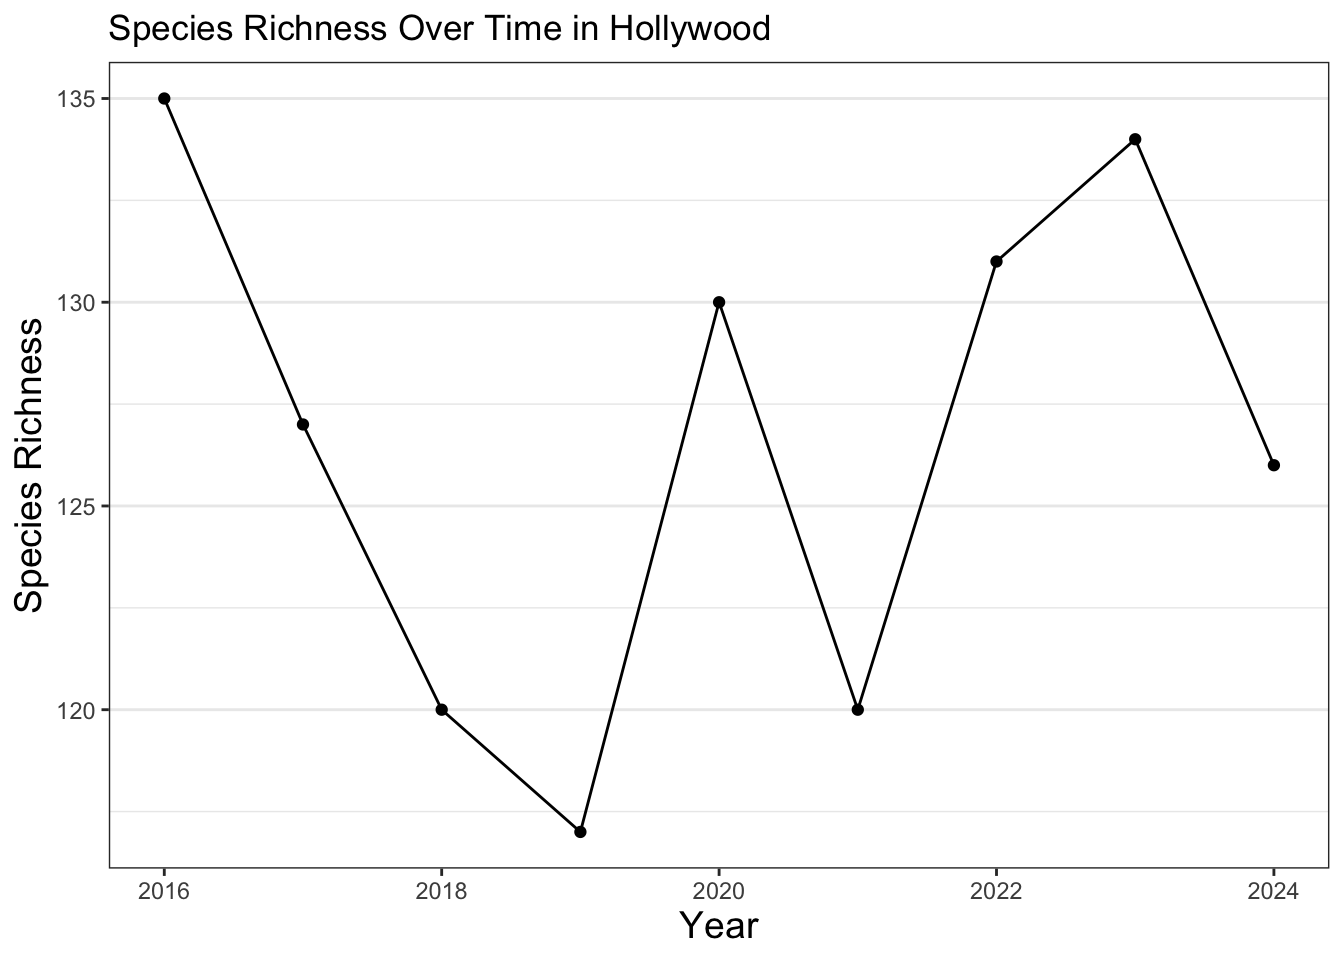
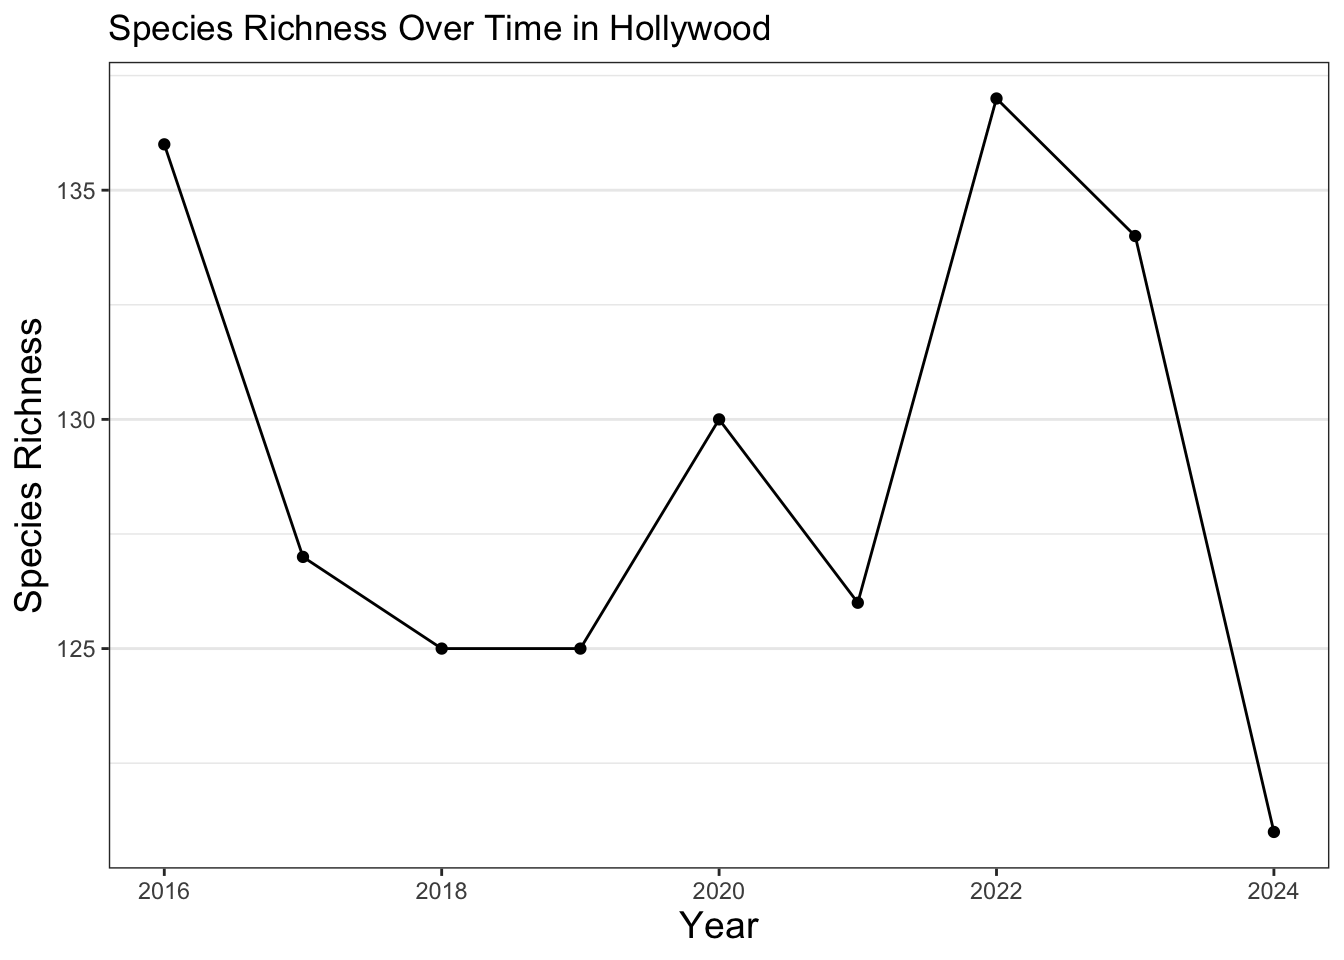
update docs

diff --git a/docs/lessons/next-steps.html b/docs/lessons/next-steps.html
@@ -266,13 +266,13 @@ ul.task-list li input[type="checkbox"] {
 <ol type="1">
 <li>Come up with one or more questions that you are interested in.</li>
 <li>Review the online lessons notes and use Codespace to run the lesson-scripts.</li>
-<li>We did one exercise in class. Optionally, do the rest of the exercises in the “Working with data”, “Creating maps”, and “Creating charts” sections to get more practice with coding. Click in “Show solution” button on the online lesson to see the solution.</li>
-<li>Figure out how to go from 190K CNC observations to the observation you want. If you want to study one or more species, review the examples that filter by species. If you want to study a group of species, review the higher taxa examples. If you want to limit the observations to a particular location, review the examples that show filtering observations using a geographic boundaries. If you want to study your own observations, look at the examples about filtering by iNaturalist user. If you want to kinda mimic the work done by scientists, look at the examples about filter by research grade and licenses. If you want to limit the observations by year, look at the examples about filtering by years.</li>
-<li>Read the <a href="https://wykhuh.github.io/after-inaturalist-r/lessons/setup.html#restart-codespace">“Restart Codespace”</a> section to turn on Codespace. Read the <a href="https://wykhuh.github.io/after-inaturalist-r/lessons/setup.html#stop-codespace">“Stop Codespace”</a> section to learn how to stop Codespace at the end of your work session.</li>
+<li>We did one exercise in class. Optionally, do the rest of the exercises in the <a href="../lessons/working-with-data.html">“Working with data”</a>, <a href="../lessons/creating-maps.html">“Creating maps”</a>, and <a href="../lessons/creating-charts.html">“Creating charts”</a> sections to get more practice with coding. Click in “Show solution” button on the online lesson to see the solution.</li>
+<li>Figure out how to go from 191K City Nature Challenge observations to the observation you want. If you want to study one or more species, review the examples that filter by species. If you want to study a group of species, review the higher taxa examples. If you want to limit the observations to a particular location, review the examples that show filtering observations using a geographic boundaries. If you want to study your own observations, review the examples about filtering by iNaturalist user. If you want to mimic the data standards used by scientists, review the examples about filter by research grade and licenses. If you want to limit the observations by year, review the examples about filtering by years. If you want to remove some of the biases in community science data, review normalizing iNaturalist data examples.</li>
+<li>Read the <a href="https://wykhuh.github.io/after-inaturalist-r/lessons/setup.html#restart-codespace">“Restart Codespace”</a> section to restart Codespace. Read the <a href="https://wykhuh.github.io/after-inaturalist-r/lessons/setup.html#stop-codespace">“Stop Codespace”</a> section to learn how to stop Codespace at the end of your work session.</li>
 <li>Create a script file to save your work.</li>
 <li>Copy and paste examples provided in the lessons, and adjust them to fit your needs. When you have something that kinda works, save the script file and the results. Save your scripts often since RStudio does not have auto save functionality. Save the scripts to the scripts folder. Save any CSVs and images you generate to the results folder.</li>
-<li>Data exploration is an iterative process. Chances are, you won’t get your final results on your first try. Try different way to look at the data. Use <code>filter()</code>, <code>select()</code>, <code>count()</code>, and <code>mutate()</code> to change the data. Then create summary tables, charts, and/or maps to find patterns. Repeat the process. You can create multiple script files.</li>
-<li>As you are analyzing the data, think about how you want to present your results.</li>
+<li>Data exploration is an iterative process. Chances are, you won’t get your final results on your first day. Try different way to look at the data. Use <code>filter()</code>, <code>select()</code>, <code>count()</code>, and <code>mutate()</code> to change the data. Then create summary tables, charts, and/or maps to find patterns. Repeat the process. You can create multiple script files.</li>
+<li>As you are analyzing the data, think about how you want to present your results. Your presentation should represent your analysis, your voice, and your interests.</li>
 <li>Attend the office hours or email me if you have questions.</li>
 </ol>
 

diff --git a/docs/lessons/cleaning-data.html b/docs/lessons/cleaning-data.html
@@ -335,7 +335,7 @@ extracting from zip file</code></pre>
 <li>information about observations with threatened, native, and introduced species had to be downloaded separately</li>
 </ul>
 <p>In order to simplify things for the workshop attendees, we fixed the various issues and created a cleaned up CSV.</p>
-<p>These are the steps we took to produced the cleaned up file. The raw file is at ‘/var/folders/zw/0kb57jnn5nv9k3pgxsz86n7h0000gq/T//RtmptitFaM/file15065c341ebf’, the cleaned file is at ‘/Users/wyk/Development/science/city_nature_challenge/NHMLA_workshop/after_inaturalist_lesson/data/cleaned/cnc-los-angeles-observations.csv’</p>
+<p>These are the steps we took to produced the cleaned up file. The raw file is at ‘/var/folders/zw/0kb57jnn5nv9k3pgxsz86n7h0000gq/T//RtmpIBdeF9/file5e0b2e7f99a9’, the cleaned file is at ‘/Users/wyk/Development/science/city_nature_challenge/NHMLA_workshop/after_inaturalist_lesson/data/cleaned/cnc-los-angeles-observations.csv’</p>
 <div class="cell">
 <div class="sourceCode cell-code" id="cb5"><pre class="sourceCode r code-with-copy"><code class="sourceCode r"><span id="cb5-1"><a href="#cb5-1" aria-hidden="true" tabindex="-1"></a>tmp <span class="ot">&lt;-</span> <span class="fu">tempfile</span>()</span>
 <span id="cb5-2"><a href="#cb5-2" aria-hidden="true" tabindex="-1"></a>zip_path <span class="ot">&lt;-</span> <span class="fu">here</span>(<span class="st">'data/raw/observations-513664.zip'</span>)</span>

diff --git a/docs/lessons/normalizing-inat.html b/docs/lessons/normalizing-inat.html
@@ -425,14 +425,14 @@ are planar</code></pre>
 <div class="cell-output cell-output-stdout">
 <pre><code># A tibble: 6 × 2
 # Groups:   year [1]
-   year scientific_name            
-  &lt;dbl&gt; &lt;chr&gt;                      
-1  2016 Malacothrix saxatilis      
-2  2016 Marah macrocarpa           
-3  2016 Heteromeles arbutifolia    
-4  2016 Cornu aspersum             
-5  2016 Pseudognaphalium luteoalbum
-6  2016 Keckiella cordifolia       </code></pre>
+   year scientific_name          
+  &lt;dbl&gt; &lt;chr&gt;                    
+1  2016 Marrubium vulgare        
+2  2016 Stachys bullata          
+3  2016 Coccinella septempunctata
+4  2016 Chenopodium album        
+5  2016 Junco hyemalis           
+6  2016 Odocoileus hemionus      </code></pre>
 </div>
 </div>
 <p>We can use table to confirm we get <code>lowest_year</code> number of observations per year.</p>
@@ -459,15 +459,15 @@ are planar</code></pre>
 # Groups:   year [9]
    year richness
   &lt;dbl&gt;    &lt;int&gt;
-1  2016      135
+1  2016      136
 2  2017      127
-3  2018      120
-4  2019      117
+3  2018      125
+4  2019      125
 5  2020      130
-6  2021      120
-7  2022      131
+6  2021      126
+7  2022      137
 8  2023      134
-9  2024      126</code></pre>
+9  2024      121</code></pre>
 </div>
 </div>
 <p>Next, we can create a chart and visualize the results. Here, we use commands for how the plot looks similar to other plots we’ve created previously.</p>

diff --git a/docs/lessons/additional-analysis.html b/docs/lessons/additional-analysis.html
@@ -748,8 +748,8 @@ $ geometry           &lt;POINT [°]&gt; POINT (-118.5365 34.38503), POINT (-118.
 <span id="cb55-6"><a href="#cb55-6" aria-hidden="true" tabindex="-1"></a><span class="fu">table</span>(my_inat<span class="sc">$</span>observed_on)</span></code><button title="Copy to Clipboard" class="code-copy-button"><i class="bi"></i></button></pre></div>
 <div class="cell-output cell-output-stdout">
 <pre><code>
-2018-04-28 2018-04-29 2020-04-26 2021-05-03 2023-05-01 
-         1          1          1          1          1 </code></pre>
+2016-04-15 2021-04-30 2022-05-01 
+         1          2          2 </code></pre>
 </div>
 </div>
 <p>Once we have the observations we want, call custom function <code>download_inaturalist_images()</code> to download the images for the observations. The images are saved in the results directory. A new directory will be created for each <code>scientific_name</code>. The image name will contain the scientific name, observation id, username and license.</p>
